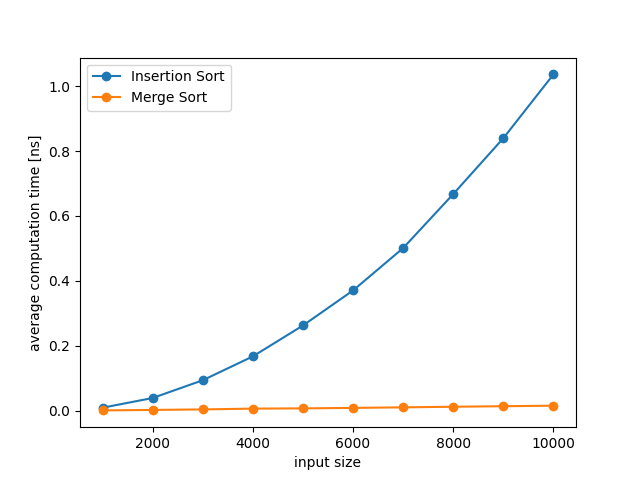
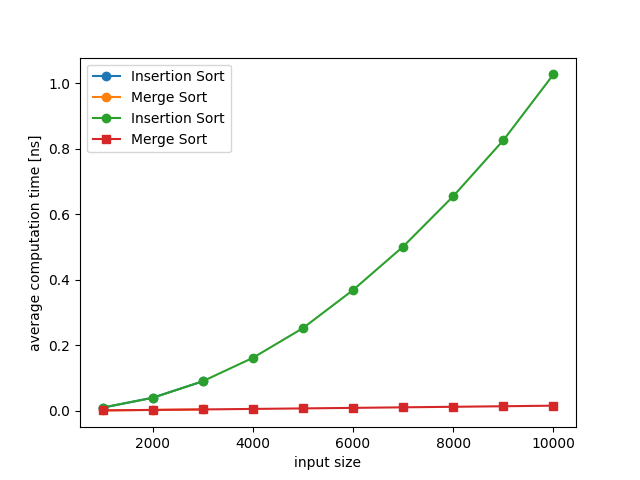
マーカーの設定を修正

diff --git a/comparison.py b/comparison.py
@@ -6,59 +6,7 @@ from merge_sort import merge_sort
 import random
 import copy
 import time
-from insertion_sort import insertion_sort
-from merge_sort import merge_sort
-from matplotlib import markers, pyplot as plt
-
-
-def comparison():
-    average_insertion = []
-    average_merge = []
-    m = 100
-    for n in range(1000, 3001, 1000):
-        print(n)
-        time_insertion = 0
-        time_merge = 0
-        for _ in range(m):
-            A = []
-            for i in range(n):
-                A.append(random.randint(0, 10 * n))
-
-            B = copy.deepcopy(A)
-            start_time = time.perf_counter()
-            insertion_sort(B, len(B))
-            end_time = time.perf_counter()
-            time_insertion = time_insertion + end_time - start_time
-
-            C = copy.deepcopy(A)
-            start_time = time.perf_counter()
-            merge_sort(C, 0, len(C) - 1)
-            end_time = time.perf_counter()
-            time_merge = time_merge + end_time - start_time
-
-        average_insertion.append(time_insertion / m)
-        average_merge.append(time_merge / m)
-    print(average_insertion)
-    plt.xlabel("input size")
-    plt.ylabel("average computation time [ns]")
-    plt.plot(
-        range(1000, 3001, 1000),  # rangeの上限を修正
-        average_insertion,
-        label="Insertion Sort",
-        marker="o",
-    )
-    plt.plot(
-        range(1000, 3001, 1000),  # rangeの上限を修正
-        average_merge,
-        label="Merge Sort",
-        marker="o",
-    )
-    plt.legend()
-    plt.savefig("comparison.png")
-
-
-if __name__ == "__main__":
-    comparison()
+from matplotlib import pyplot as plt
 
 
 def comparison():
